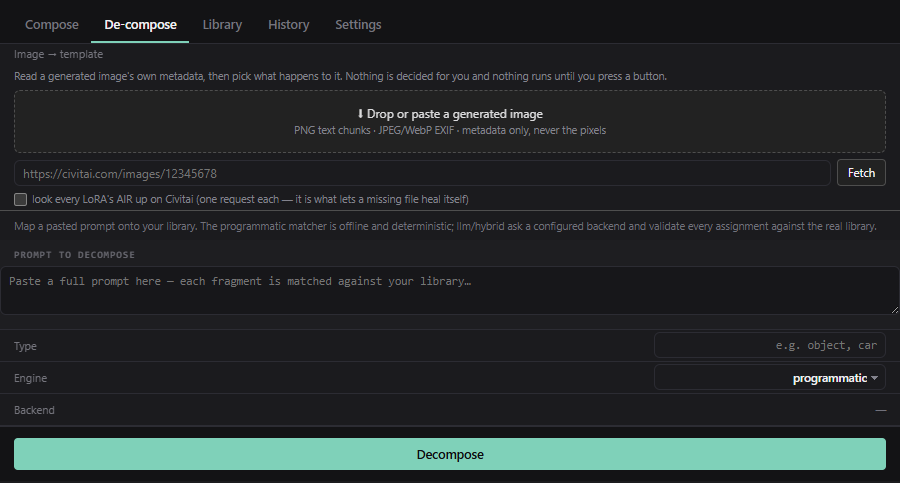
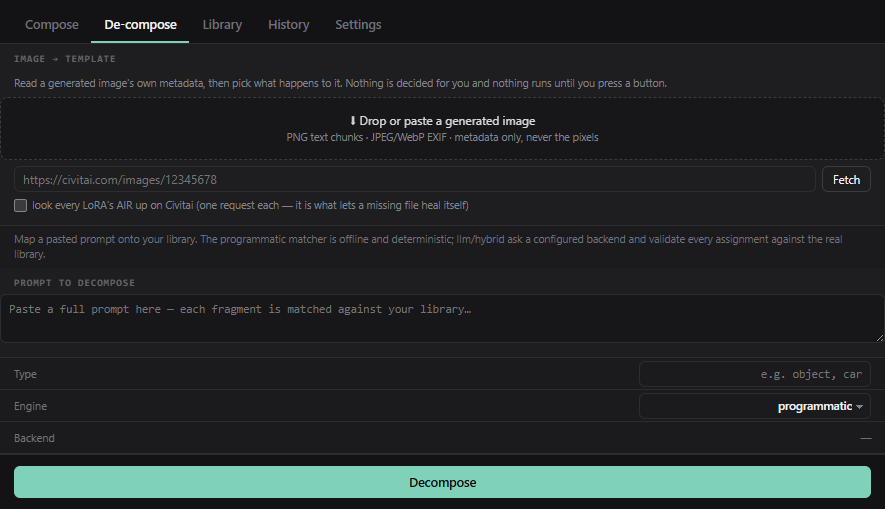
Re-shoot De-compose, and stop the overlap check crying wolf
06-decompose was stale from my own change earlier today — the tab now opens on
a head band rather than a bare line of body text — and it was still 900 wide
while everything around it moved to 885. Both fixed.

The spec's overlap assertion reported two overlaps on this tab and both were
false: a display:none child reports a zero-size rect at 0,0, which naively
reads as "above everything". The De-compose tab has two (the hidden <hr> beside
the intake card and the De-composing spinner). A check that reports phantoms is
a check people learn to ignore, so it now filters zero-height children — and
the spec says why, since that is exactly the kind of thing rediscovered the
hard way.

Real layout was contiguous throughout: 44 → 226 → 268 → 358 → 454 → 509.

diff --git a/docs/prompt-composer-guide.md b/docs/prompt-composer-guide.md
@@ -402,7 +402,7 @@ template can read differently for one target without a second copy on disk.
 
 ## De-compose
 
-<img src="images/06-decompose.png" width="900" alt="The De-compose tab">
+<img src="images/06-decompose.png" width="885" alt="The De-compose tab">
 
 The other direction: start from a prompt or an image and end with a template.
 
